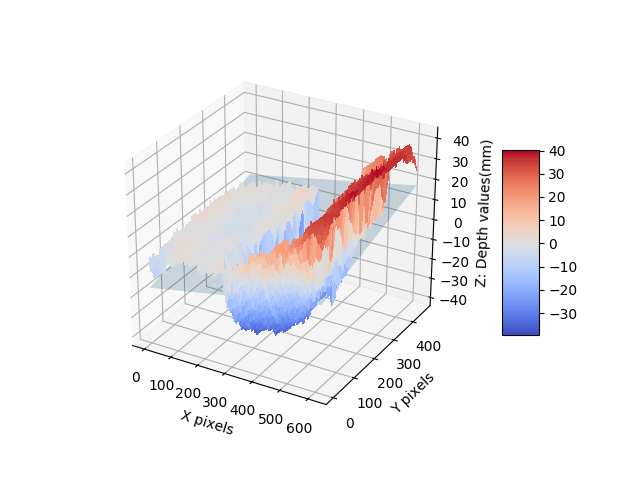
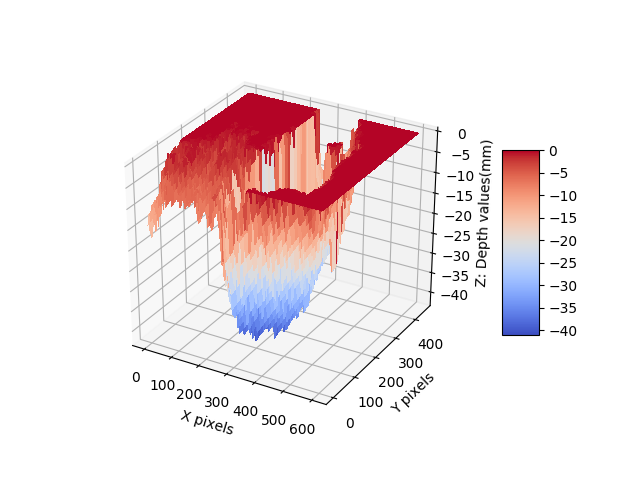
added some more comments, and error not  giving non pothole points to leastSqCoeff

diff --git a/dataAnalysis17.py b/dataAnalysis17.py
@@ -106,24 +106,36 @@ for xyz in points:
         bbox[3] = xyz[1]
     #bbox[5] = max(bbox[5], xyz[2]) # max z
 
-bbox_corners = numpy.array([
-    [bbox[0],bbox[2], bbox[4]],
-    [bbox[0],bbox[2], bbox[5]],
-    [bbox[0],bbox[3], bbox[5]],
-    [bbox[0],bbox[3], bbox[4]],
-    [bbox[1],bbox[3], bbox[4]],
-    [bbox[1],bbox[2], bbox[4]],
-    [bbox[1],bbox[2], bbox[5]],
-    [bbox[1],bbox[3], bbox[5]]]);
+#making a cube of the points around the min and max, each of these points are a vertex
+#not sure why, look at later
+#not using bbox_corner anywhere
+#bbox_corners = numpy.array([
+#    [bbox[0],bbox[2], bbox[4]],
+#    [bbox[0],bbox[2], bbox[5]],
+#    [bbox[0],bbox[3], bbox[5]],
+#    [bbox[0],bbox[3], bbox[4]],
+#    [bbox[1],bbox[3], bbox[4]],
+#    [bbox[1],bbox[2], bbox[4]],
+#    [bbox[1],bbox[2], bbox[5]],
+#    [bbox[1],bbox[3], bbox[5]]]);
 
+#finds coordinates of the center in the cube
 bbox_center = numpy.array([(bbox[0]+bbox[1])/2, (bbox[2]+bbox[3])/2, (bbox[4]+bbox[5])/2]);
 
 #hardcodes the tolerance and threshold 
-TOLERANCE = 0.78 #5
+TOLERANCE = 0.78 # standard distance of the "level" of the road. 0.78 metres.
 # ratio of inliers
 THRESHOLD = 0.05
 N_ITERATIONS = 1000
 # Finds least squares solution coeffiecients for ax+by+cz=1
+
+#this code is faulty becaue it picks points randomly from the points array. 
+
+
+# write code where you store all the points not in the pothole.
+# write code that choose, say 1000, points from the set above . IMPORTANT: These points should be chosen RANDOMLY(not the first 1000)
+# give this data instead of "points" in the function leastSqCoeff
+
 (a,b,c) = leastSqCoeff(THRESHOLD, TOLERANCE, N_ITERATIONS, points, bbox)
 
 # plot ransac

diff --git a/leastSqCoeff.py b/leastSqCoeff.py
@@ -10,6 +10,8 @@ import random
 import math
 
 def leastSqCoeff (THRESHOLD, TOLERANCE, N_ITERATIONS, points, bbox):
+    #points is a roster or a list of all the points
+    
     #run ransac on dataset B (2nd trial)
     #code taken from https://github.com/minghuam/point-visualizer/blob/master/point_visualizer.py
     #http://www.cse.yorku.ca/~kosta/CompVis_Notes/ransac.pdf
@@ -27,14 +29,22 @@ def leastSqCoeff (THRESHOLD, TOLERANCE, N_ITERATIONS, points, bbox):
         # randomly pick three non-colinear points
         CP = numpy.array([0,0,0])
         while CP[0] == 0 and CP[1] == 0 and CP[2] == 0:
+            
+            #A stores x coord, B stores y coord and C stores depth (z coord)
             [A,B,C] = points[random.sample(range(len(points)), 3)]
+            
             # make sure they are non-collinear
             CP = numpy.cross(A-B, B-C)
+            
             # calculate plane coefficients
             abc = numpy.dot(numpy.linalg.inv(numpy.array([A,B,C])), numpy.ones([3,1]))
+            
             # get distances from the plane
             d = math.sqrt(abc[0]*abc[0]+abc[1]*abc[1]+abc[2]*abc[2])
+            
             dist = abs((numpy.dot(points, abc) - 1)/d)
+            print(dist)
+            input("Break")
             #print max(dist),min(dist)
             ind = numpy.where(dist < TOLERANCE)[0]
             ratio = float(len(ind))/len(points)
